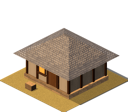
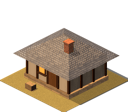
feat(art): give every house a visible chimney
Smoke rises from inhabited houses, but the peasant house had no
chimney and the citizen's sat behind the ridge. Every tier and culture
look now has one off-centre on the visible slope or roof deck: rubble
in the north, brick in the East Asian looks, whitewash in the
Mediterranean and sandstone stubs on the Middle Eastern flat roofs.

Refs #84

Changed region(s): [[0.5, 0.3214, 0.625, 0.5089]]

diff --git a/Tools/IsoKit/Sources/IsoKitCore/Recipes/CultureRecipes.swift b/Tools/IsoKit/Sources/IsoKitCore/Recipes/CultureRecipes.swift
@@ -53,6 +53,7 @@ extension Recipes {
     static func houseEastAsian(_ kit: Builder) {
         kit.hallEast(SCNVector3(1.4, 0, 1.4), SCNVector3(6.6, 2.7, 6.0), plinth: 0.45)
         kit.hipRoof(RoofSpec(lo: SCNVector3(1.4, 3.0, 1.4), hi: SCNVector3(6.6, 0, 6.0), pitchDegrees: 30, overhang: 0.9, finish: .slate))
+        kit.chimney(x: 5.2, depth: 4.6, from: 2.7, to: 4.7, finish: .brick)
         kit.block(SCNVector3(2.6, 0, 6.9), SCNVector3(3.4, 0.5, 7.5), .thatch)
     }
 
@@ -62,6 +63,7 @@ extension Recipes {
         kit.pent(SCNVector3(1.0, 2.6, 1.2), SCNVector3(7.0, 0, 6.4))
         kit.hallEast(SCNVector3(1.5, 2.8, 1.6), SCNVector3(6.5, 5.0, 6.0), plinth: 0)
         kit.hipRoof(RoofSpec(lo: SCNVector3(1.5, 5.3, 1.6), hi: SCNVector3(6.5, 0, 6.0), pitchDegrees: 30, overhang: 0.9, finish: .slate))
+        kit.chimney(x: 5.1, depth: 4.6, from: 5.0, to: 7.0, finish: .brick)
     }
 
     /// Three storeys over a dark tiled plinth wall, two pent roofs, red posts and a flared crown roof.
@@ -73,6 +75,7 @@ extension Recipes {
         kit.pent(SCNVector3(1.4, 5.6, 1.4), SCNVector3(6.6, 0, 6.4))
         kit.hallEast(SCNVector3(1.9, 5.8, 1.9), SCNVector3(6.1, 7.6, 5.9), plinth: 0)
         kit.hipRoof(RoofSpec(lo: SCNVector3(1.9, 7.9, 1.9), hi: SCNVector3(6.1, 0, 5.9), pitchDegrees: 30, overhang: 0.9, finish: .slate))
+        kit.chimney(x: 4.9, depth: 4.6, from: 7.6, to: 9.4, finish: .brick)
     }
 
     // MARK: Mediterranean
@@ -88,8 +91,8 @@ extension Recipes {
             finish: .paint(Looks.blueShutter)
         )
         kit.shuttered(Face.east(wallX: 6.6), at: [3.6], y: 1.7)
-        kit.block(SCNVector3(2.0, 2.8, 2.4), SCNVector3(2.6, 4.6, 3.0), .plasterPale)
-        kit.block(SCNVector3(1.9, 4.6, 2.3), SCNVector3(2.7, 4.8, 3.1), .tile)
+        kit.chimney(x: 5.2, depth: 4.4, from: 2.8, to: 4.6, finish: .plasterPale)
+        kit.block(SCNVector3(4.84, 4.6, 4.04), SCNVector3(5.56, 4.72, 4.76), .tile)
         kit.amphorae(at: SCNVector3(4.6, 0, 7.0))
     }
 
@@ -100,6 +103,7 @@ extension Recipes {
         kit.shuttered(Face.south(wallZ: 6.2), at: [2.2, 4.0, 5.8], y: 4.0)
         kit.shuttered(Face.east(wallX: 7.0), at: [2.4, 4.8], y: 4.0)
         kit.shuttered(Face.east(wallX: 7.0), at: [3.6], y: 1.6)
+        kit.chimney(x: 5.6, depth: 4.6, from: 5.0, to: 6.9, finish: .plasterPale)
     }
 
     /// Three storeys on a stone ground floor, a balcony, and a belvedere tower with an open loggia.
@@ -121,6 +125,7 @@ extension Recipes {
         kit.shuttered(Face.east(wallX: 7.1), at: [2.4, 5.0], y: 3.8)
         kit.block(SCNVector3(2.6, 2.9, 6.6), SCNVector3(5.4, 3.0, 7.4), .ashlar)
         kit.block(SCNVector3(2.6, 3.0, 7.32), SCNVector3(5.4, 3.8, 7.4), .paint(Trade.iron))
+        kit.chimney(x: 5.8, depth: 5.0, from: 6.8, to: 8.4, finish: .plasterPale)
         kit.block(SCNVector3(1.4, 6.8, 1.4), SCNVector3(3.6, 8.6, 3.6), .plasterPale)
         kit.arcade(Face.south(wallZ: 3.6), from: 1.6, to: 3.4, base: 6.9)
         kit.arcade(Face.east(wallX: 3.6), from: 1.6, to: 3.4, base: 6.9)
@@ -132,6 +137,7 @@ extension Recipes {
     /// A sandstone cottage behind a parapet, small arched windows, a blue-framed door under an awning, and a palm.
     static func houseMiddleEastern(_ kit: Builder) {
         kit.parapetBlock(SCNVector3(1.4, 0, 1.4), SCNVector3(6.0, 3.0, 5.6))
+        kit.chimney(x: 5.1, depth: 4.7, from: 3.0, to: 4.1, finish: .ashlar)
         kit.blueArch(Face.south(wallZ: 5.6), along: 3.6, width: 1.0, height: 2.0)
         for along in [2.2, 5.0] as [CGFloat] {
             kit.archDoor(Face.south(wallZ: 5.6), along: along, width: 0.5, height: 0.9, base: 1.3, finish: .paint(Crops.opening))
@@ -145,6 +151,7 @@ extension Recipes {
     /// Two storeys with a projecting lattice bay and a rooftop room behind its own parapet.
     static func houseMiddleEastern2(_ kit: Builder) {
         kit.parapetBlock(SCNVector3(1.0, 0, 1.2), SCNVector3(6.8, 5.2, 6.4))
+        kit.chimney(x: 5.9, depth: 5.5, from: 5.2, to: 6.3, finish: .ashlar)
         kit.blueArch(Face.south(wallZ: 6.4), along: 2.4, width: 1.0, height: 2.0)
         kit.latticeBay(Face.south(wallZ: 6.4), along: 4.8, base: 2.8)
         kit.archDoor(Face.east(wallX: 6.8), along: 3.8, width: 0.5, height: 0.9, base: 3.4, finish: .paint(Crops.opening))
@@ -155,6 +162,7 @@ extension Recipes {
     /// Three storeys with two lattice bays and a slotted wind tower on the roof.
     static func houseMiddleEastern3(_ kit: Builder) {
         kit.parapetBlock(SCNVector3(0.9, 0, 1.0), SCNVector3(7.0, 7.4, 6.6))
+        kit.chimney(x: 6.1, depth: 5.7, from: 7.4, to: 8.5, finish: .ashlar)
         kit.blueArch(Face.south(wallZ: 6.6), along: 4.0, width: 1.2, height: 2.2)
         kit.latticeBay(Face.south(wallZ: 6.6), along: 2.2, base: 3.0)
         kit.latticeBay(Face.south(wallZ: 6.6), along: 5.8, base: 3.0)

diff --git a/Tools/IsoKit/Sources/IsoKitCore/Recipes/Recipes.swift b/Tools/IsoKit/Sources/IsoKitCore/Recipes/Recipes.swift
@@ -81,6 +81,7 @@ public enum Recipes {
         let finish: Finish = stage >= 3 ? .thatch : .planks
         kit.gableRoof(RoofSpec(lo: SCNVector3(lo.x, wallTop, lo.z), hi: hi, pitchDegrees: 45, finish: finish))
         guard stage >= 3 else { return }
+        kit.chimney(x: lo.x + 3.9, depth: (lo.z + hi.z) / 2 + 0.5, from: wallTop, to: 5.7)
         kit.logStack(at: SCNVector3(hi.x + 0.3, 0, lo.z + 1.6), length: 1.6, rows: 2, alongX: false)
         kit.barrel(at: SCNVector3(lo.x + 1.9, 0, hi.z + 0.45))
         kit.ground(SCNVector3(lo.x + 2.6, 0, hi.z + 0.5), SCNVector3(hi.x, 0, 7.6), .paint(Palette.soil))
@@ -124,7 +125,7 @@ public enum Recipes {
             finish: .tile,
             gableFinish: .plasterPale
         ))
-        kit.chimney(x: lo.x + 4.5, depth: (lo.z + hi.z) / 2 - 1.0, from: 5.0, to: ridge + 0.8)
+        kit.chimney(x: lo.x + 4.5, depth: (lo.z + hi.z) / 2 + 0.9, from: 5.0, to: ridge + 0.6)
         kit.porch(alongX: (lo.x + 0.8) ... (lo.x + 2.4), wallZ: hi.z, depth: 0.9, height: 2.5)
         kit.barrel(at: SCNVector3(lo.x + 2.9, 0, hi.z + 0.5))
         kit.barrel(at: SCNVector3(lo.x + 3.5, 0, hi.z + 0.7))
